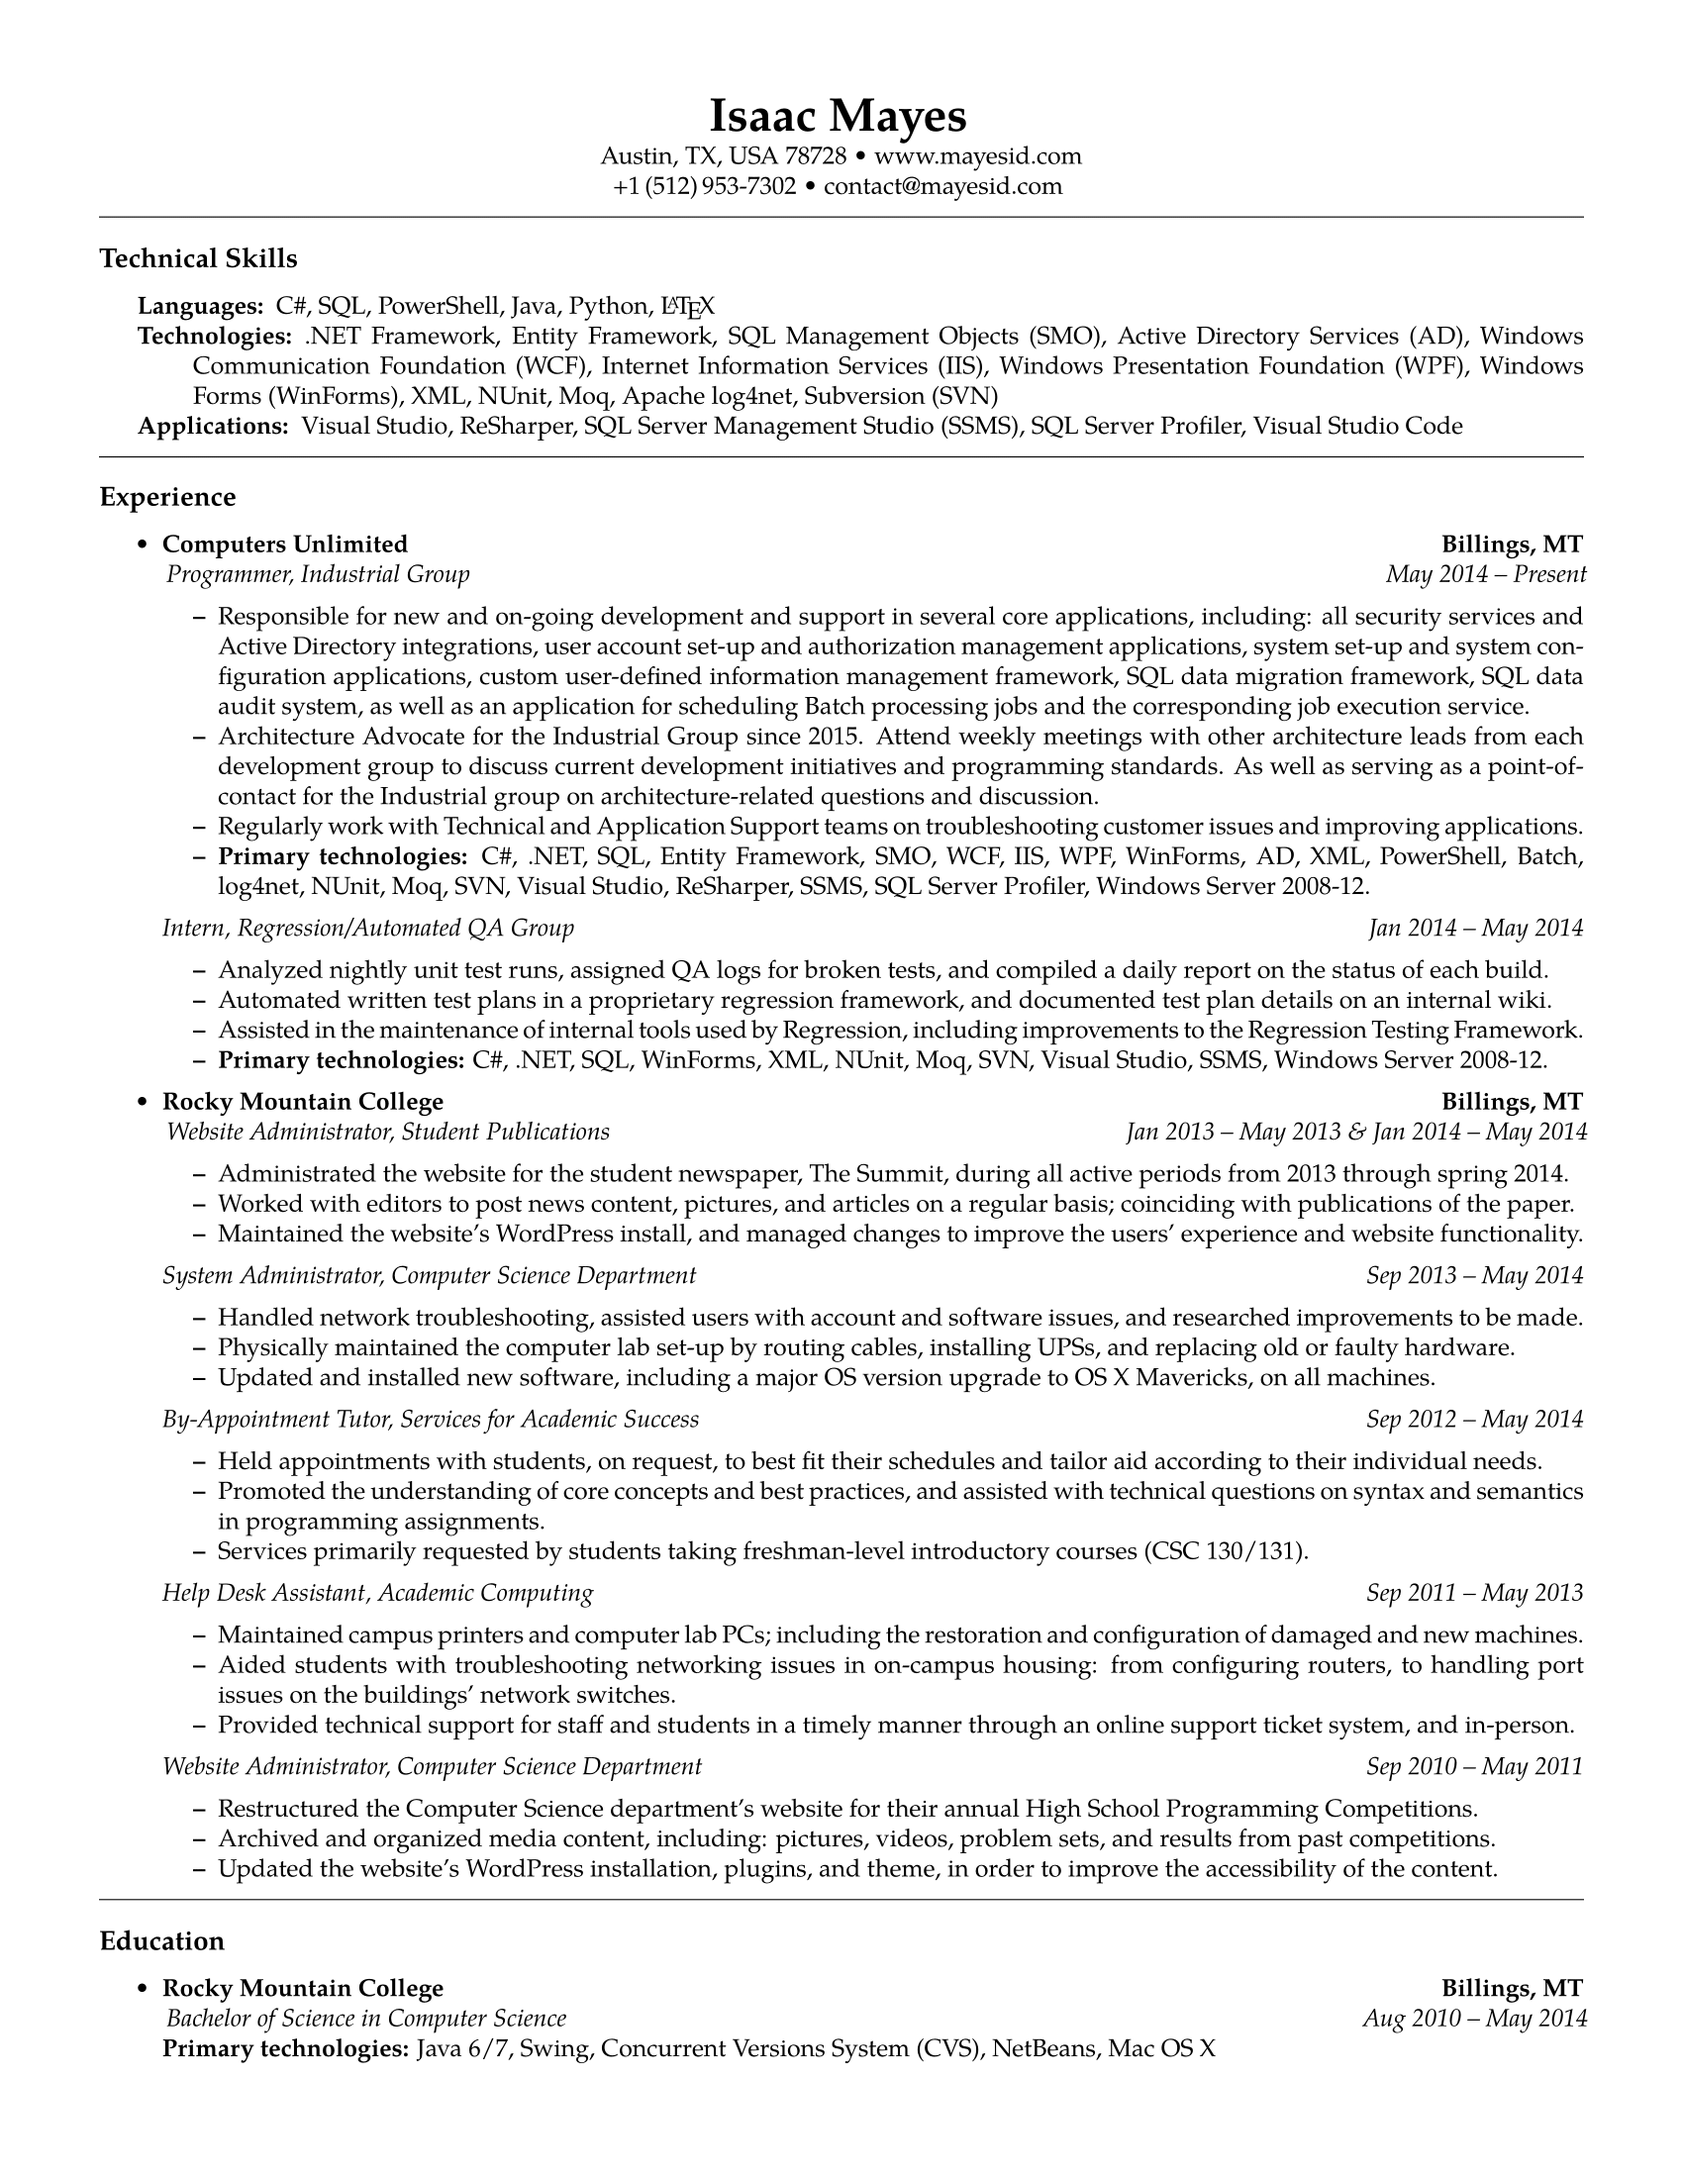
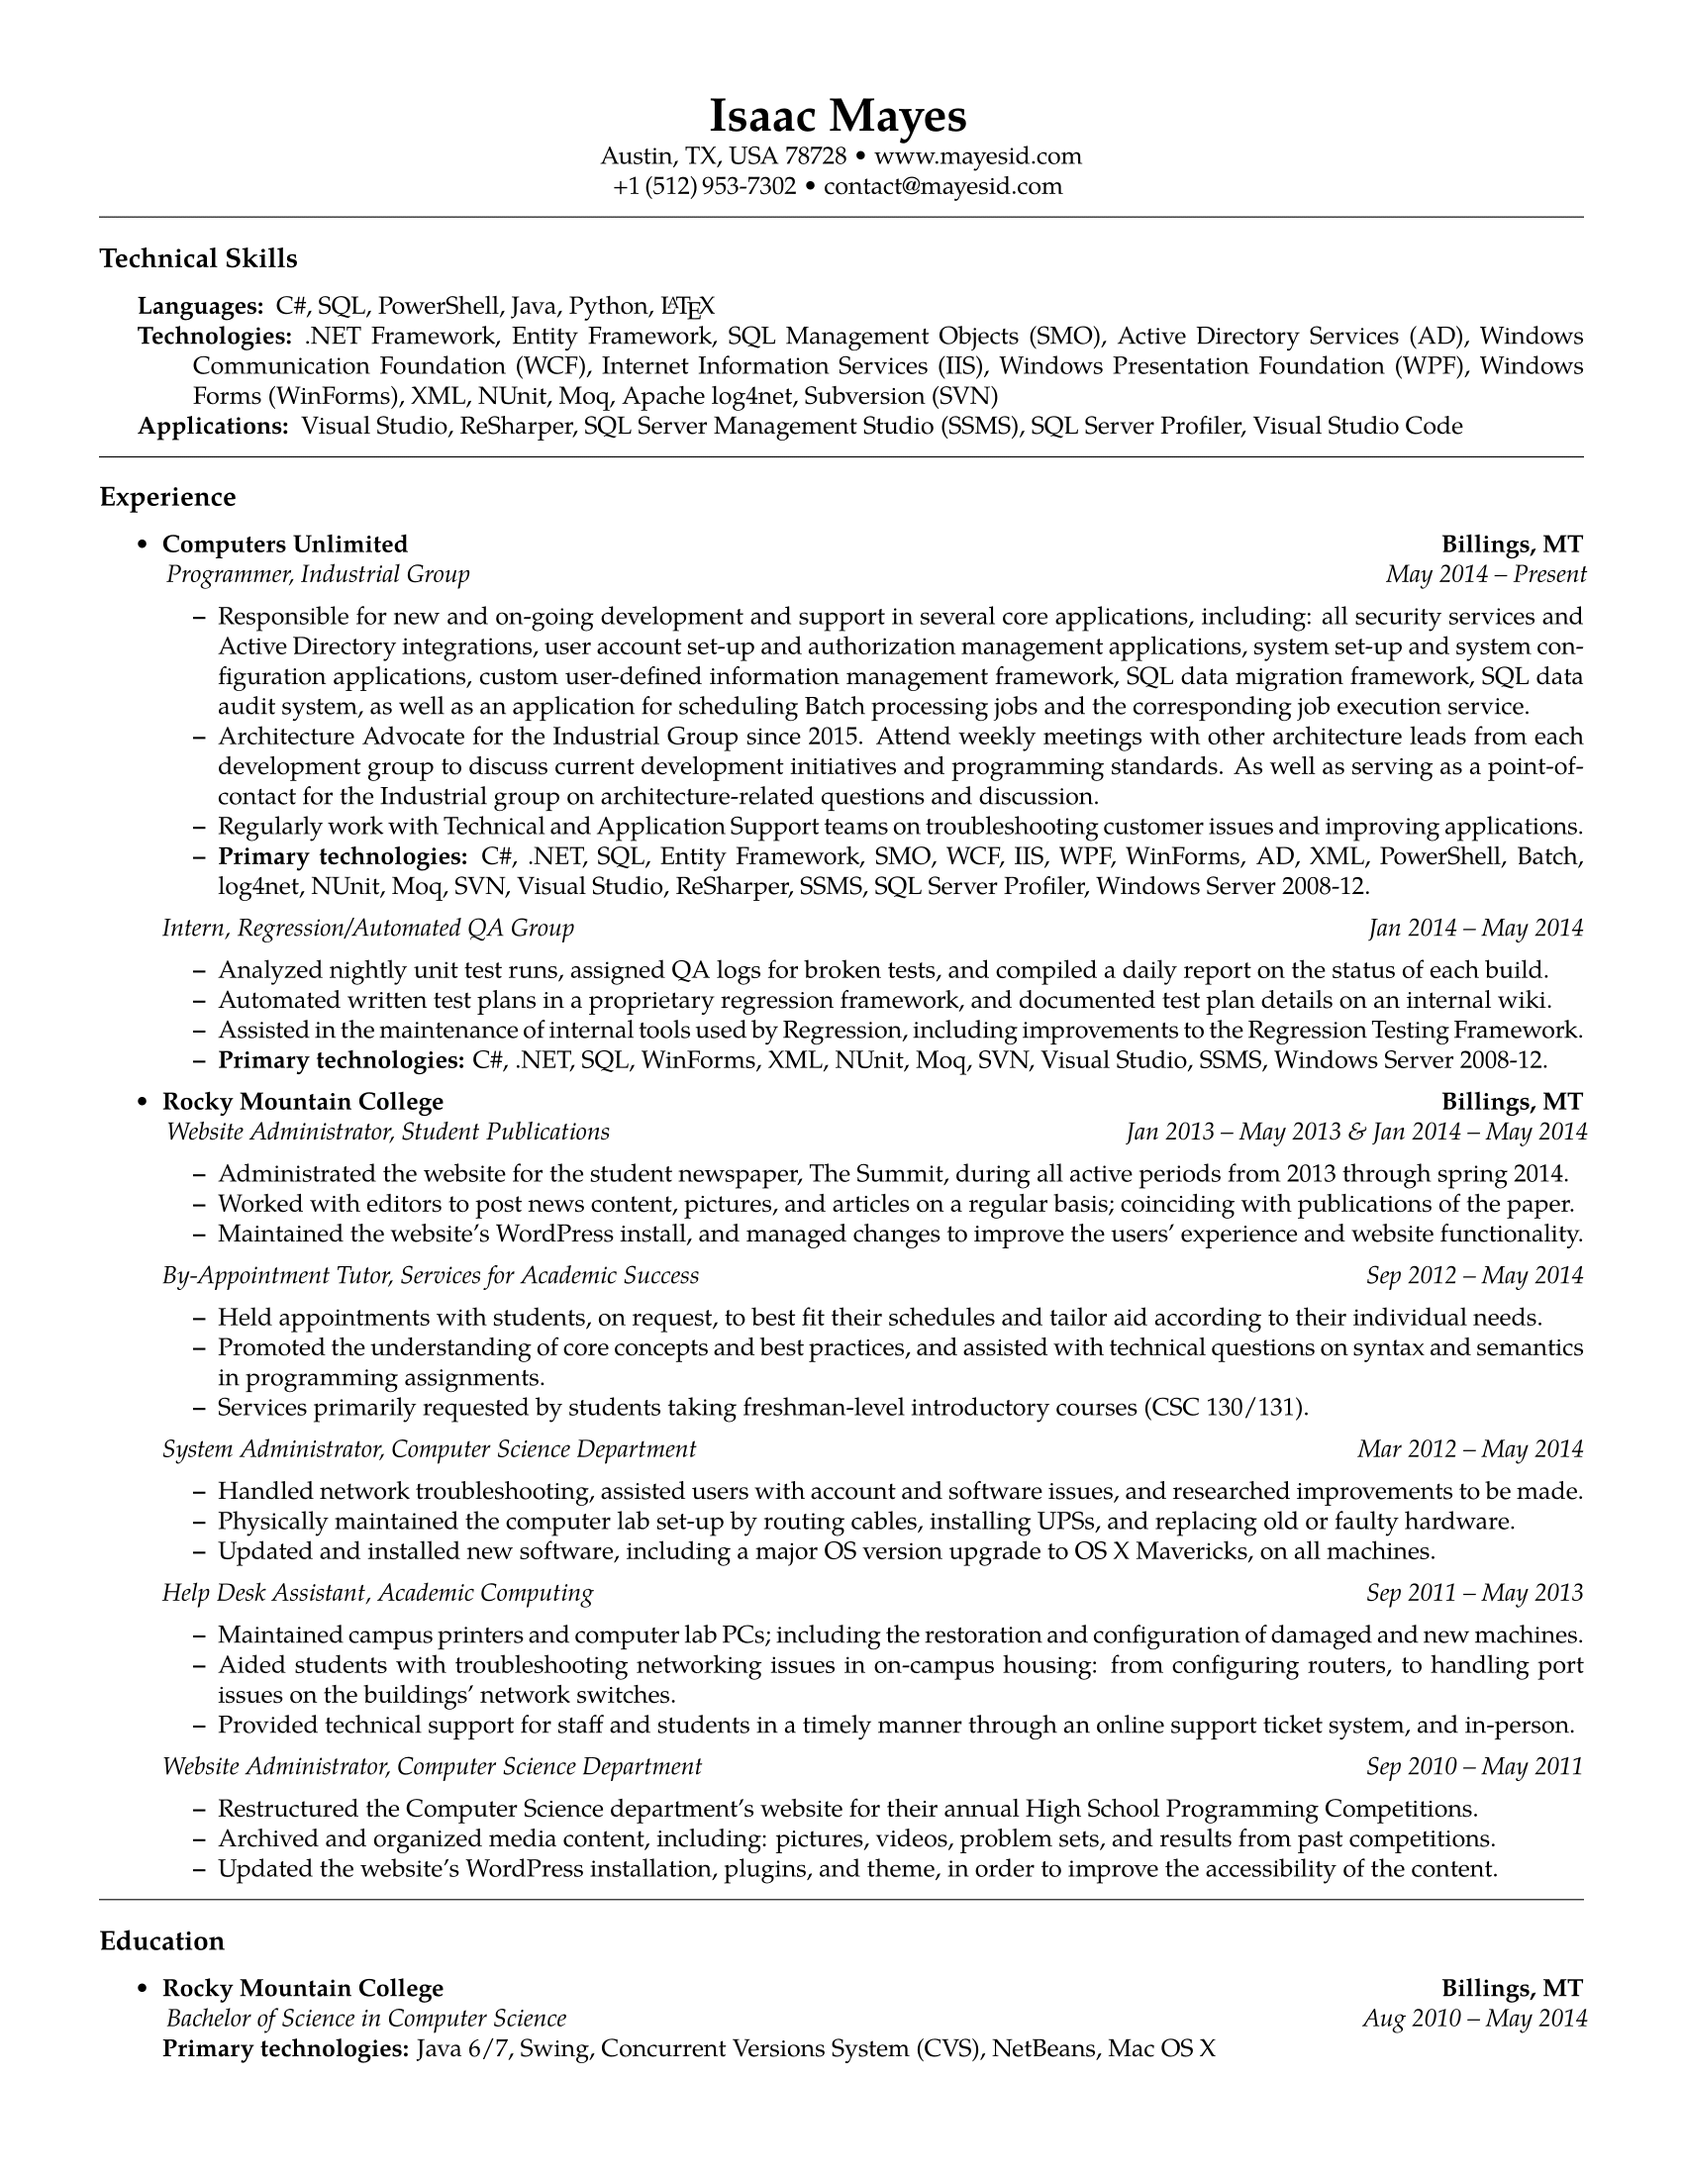
Fixed incorrect date
* Fixed incorrect start date for 'System Administrator' position.
* Reorganized employment history section for the change.
* Regenerated the PDF and PNG files for the change.

Changed region(s): [[0.0935, 0.5873, 0.9353, 0.7418]]

diff --git a/Resume_IsaacMayes.tex b/Resume_IsaacMayes.tex
@@ -163,15 +163,6 @@ breaklinks}
 		\item Worked with editors to post news content, pictures, and articles on a regular basis; coinciding with publications of the paper.
 		\item Maintained the website's WordPress install, and managed changes to improve the users' experience and website functionality.
 	\end{itemize*}
-	\pdfbookmark[3]{System Administrator}{PDF:SystemAdministrator_CSDept}
-	\headerrow
-		{\emph{System Administrator, \href{http://cs.rocky.edu}{Computer Science Department}}}
-		{\emph{\DatestampYM{2013}{09} -- \DatestampYM{2014}{05}}}
-	\begin{itemize*}
-		\item Handled network troubleshooting, assisted users with account and software issues, and researched improvements to be made.
-		\item Physically maintained the computer lab set-up by routing cables, installing UPSs, and replacing old or faulty hardware.
-		\item Updated and installed new software, including a major OS version upgrade to OS X Mavericks, on all machines.
-	\end{itemize*}
 	%\pdfbookmark[3]{Paid Note-Taker}{PDF:PaidNoteTaker}
 	%\headerrow
 	%	{\emph{Paid Note-Taker, \href{https://www.rocky.edu/student-life/student-support/academic-support/ServicesAcademicSuccess.php}{Services for Academic Success}}}
@@ -189,6 +180,15 @@ breaklinks}
 		\item Held appointments with students, on request, to best fit their schedules and tailor aid according to their individual needs.
 		\item Promoted the understanding of core concepts and best practices, and assisted with technical questions on syntax and semantics in programming assignments.
 		\item Services primarily requested by students taking \href{https://www.rocky.edu/academics/catalog/program/9/Computer_Science#courses-content}{freshman-level introductory courses (CSC 130/131)}.
+	\end{itemize*}
+	\pdfbookmark[3]{System Administrator}{PDF:SystemAdministrator_CSDept}
+	\headerrow
+		{\emph{System Administrator, \href{http://cs.rocky.edu}{Computer Science Department}}}
+		{\emph{\DatestampYM{2012}{03} -- \DatestampYM{2014}{05}}}
+	\begin{itemize*}
+		\item Handled network troubleshooting, assisted users with account and software issues, and researched improvements to be made.
+		\item Physically maintained the computer lab set-up by routing cables, installing UPSs, and replacing old or faulty hardware.
+		\item Updated and installed new software, including a major OS version upgrade to OS X Mavericks, on all machines.
 	\end{itemize*}
 	\pdfbookmark[3]{Help Desk Assistant}{PDF:HelpDeskAssistant}
 	\headerrow
